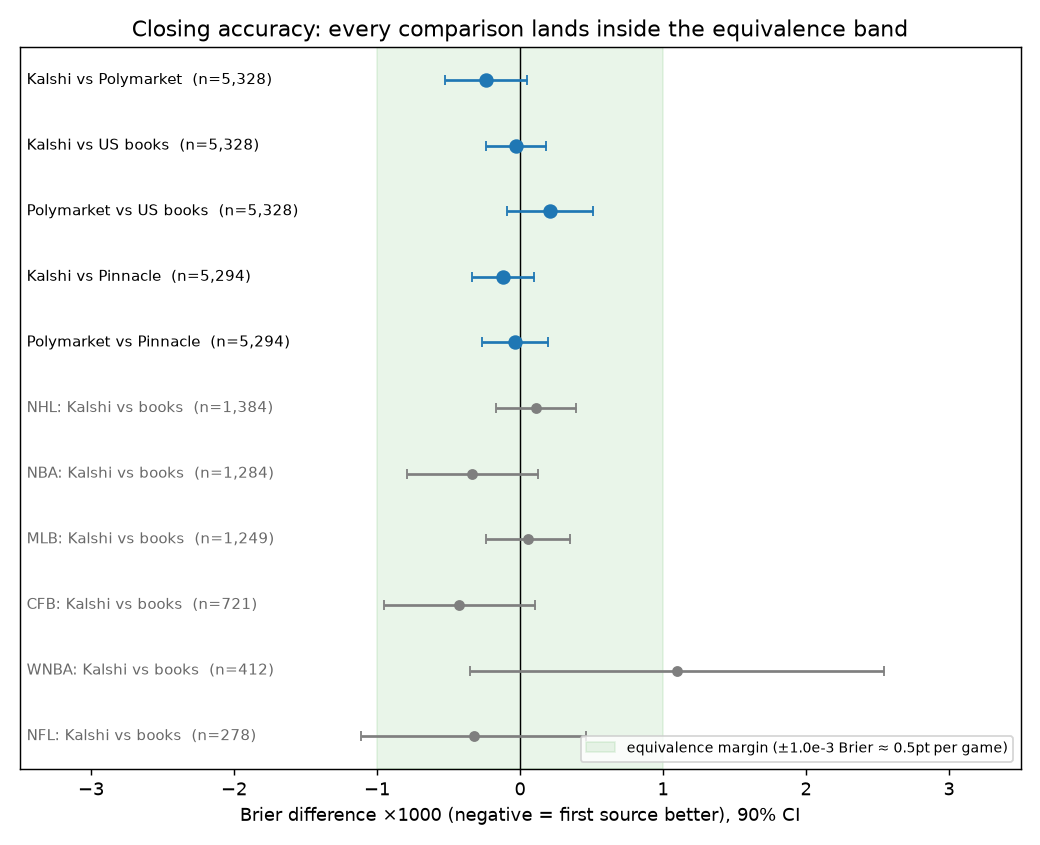
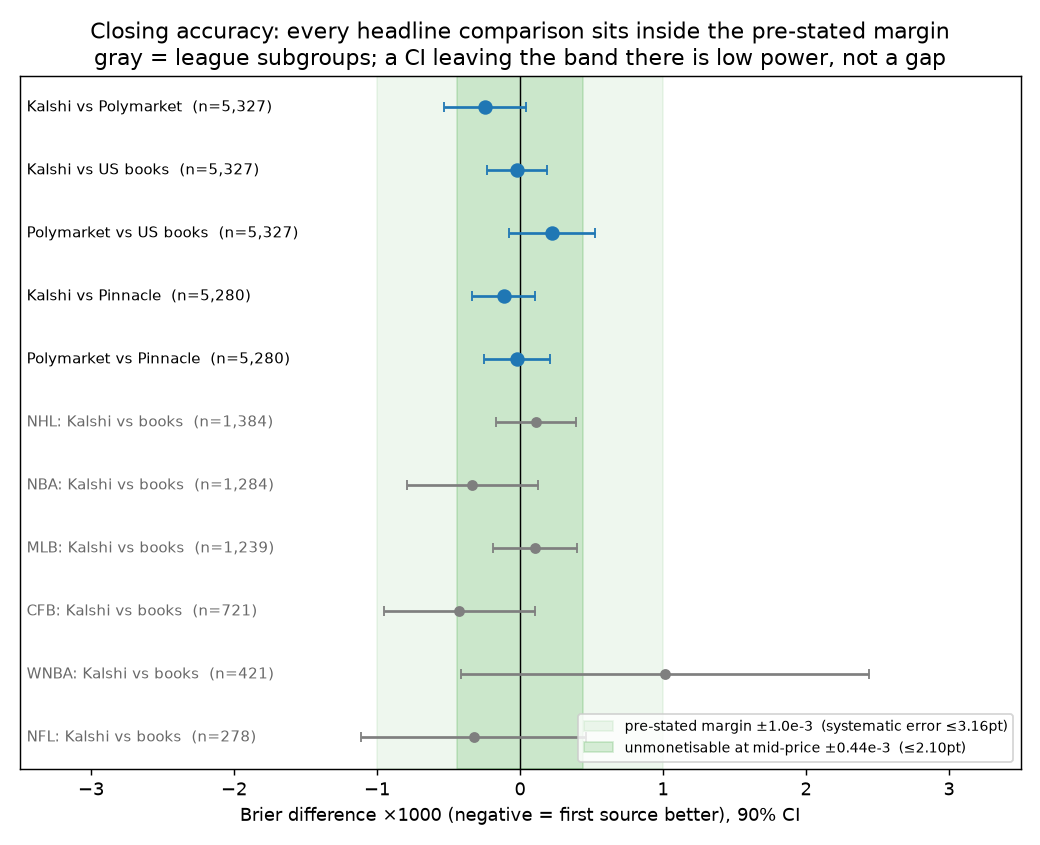
Fix the equivalence margin's probability scale, and anchor it economically
dBrier = eps^2 exactly for a forecast displaced from truth by eps. rigor.py
and two docs glossed the pre-stated margin d=1.0e-3 as "0.5pt per game"; it
is 3.16pt. The error ran in the flattering direction and had reached the
published Fig 2 label.

The margin does not move -- it was pre-stated 2026-07-21, and re-choosing it
after seeing results is the failure the pre-registration note warns about.
Instead it is now reported against a cost anchor: an edge below
(4.2% all-in taker cost x contract price) cannot be monetised, giving
d = 0.11 / 0.44 / 0.99e-3 at prices 0.25 / 0.50 / 0.75. The pre-stated
1.0e-3 turns out to be that anchor at favourite prices.

rigor.py now prints |CI|max on the probability scale and a verdict table
against the full ladder. Result at the mid-price anchor (0.44e-3):

  Kalshi - Sportsbook      0.234e-3 = 1.53pt   equivalent
  Polymarket - Sportsbook  0.521e-3 = 2.28pt   does not resolve
  Kalshi - Polymarket      0.530e-3 = 2.30pt   does not resolve

So the paper's core comparison survives the strictest defensible margin, and
the Polymarket pairs resolve only at the looser one -- a sharper claim than
the blanket equivalence, and it states its own limit.

Fig 2 gains the inner band and loses a title that overstated: WNBA and NFL
CIs visibly exit the pre-stated band, which is low power, not a gap.

Suite re-run: 57 modules, 0 failures.

diff --git a/src/analysis/rigor.py b/src/analysis/rigor.py
@@ -3,7 +3,12 @@
 1. Cluster-robust DM tests (cluster by date: same-day games share news/conditions).
 2. TOST equivalence: turn "not significant" into "statistically equivalent within ±δ".
    We report the 90% CI of each pairwise Brier difference — equivalence holds at any
-   margin δ wider than that CI.
+   margin δ wider than that CI — and translate every margin onto the probability
+   scale, because ΔBrier = ε² for a systematic offset ε and the two are easy to
+   confuse (an earlier note in this file glossed δ=1e-3 as 0.5pt; it is 3.16pt).
+   Margins are anchored economically: an edge below (taker cost × price) cannot be
+   monetised, so that is the smallest difference worth calling real.
+   See docs/methodology-decisions.md D2.
 3. De-vig robustness: recompute book probabilities with Shin's model (which accounts
    for insider/informed betting) instead of multiplicative normalization; re-test.
 """
@@ -14,6 +19,64 @@ import pandas as pd
 from scipy import stats
 
 from src.analysis.three_way import load, SRC
+
+
+# All-in retail taker cost as a share of notional [immediacy.log; Kalshi's taker
+# path ≈ the books' 4.1% vig]. Anchors the equivalence margin: an edge smaller
+# than (cost × price) cannot be monetised by anyone actually paying that cost.
+TAKER_COST = 0.042
+
+# Pre-stated TOST margin, fixed 2026-07-21 before the comparisons that rest on
+# it. It does not move — see docs/methodology-decisions.md D2.
+DELTA_PRESTATED = 1.0e-3
+
+ANCHOR_PRICES = (0.25, 0.50, 0.75)
+
+
+def eps_pt(delta):
+    """Systematic probability offset, in percentage points, that a Brier margin
+    δ tolerates. For a forecast displaced from the truth by ε, the Brier excess
+    is exactly ε², so the offset a margin admits is √δ."""
+    return np.sqrt(delta) * 100
+
+
+def anchored_margin(price, cost=TAKER_COST):
+    """Brier margin below which an edge is unmonetisable at this contract price.
+    Cost is a share of notional and notional is the contract price, so breakeven
+    edge is cost × price; converting to the Brier scale squares it."""
+    return (cost * price) ** 2
+
+
+def equivalence_report(pairs):
+    """Margin ladder on the probability scale, then each pair's TOST verdict."""
+    print("\n=== equivalence margins, translated to the probability scale ===", flush=True)
+    print("  ΔBrier = ε² for a systematic offset ε, so a margin δ admits √δ:", flush=True)
+    ladder = [anchored_margin(p) for p in ANCHOR_PRICES] + [DELTA_PRESTATED]
+    print("    " + "   ".join(f"δ={dl*1000:.2f}e-3 -> {eps_pt(dl):.2f}pt" for dl in ladder), flush=True)
+
+    print(f"\n  Economic anchor: an edge below (taker cost × price) cannot be monetised.", flush=True)
+    print(f"  All-in taker cost {TAKER_COST*100:.1f}% of notional [immediacy.log].", flush=True)
+    for pr in ANCHOR_PRICES:
+        dl = anchored_margin(pr)
+        print(f"    price {pr:.2f} -> breakeven edge {TAKER_COST*pr*100:.2f}pt "
+              f"-> δ={dl*1000:.3f}e-3", flush=True)
+    print(f"  The pre-stated δ={DELTA_PRESTATED*1000:.1f}e-3 coincides with the anchor at "
+          f"favourite prices (p≈0.75);\n  it was fixed before these comparisons and is "
+          f"not re-chosen here.", flush=True)
+
+    margins = [(f"p={pr:.2f}", anchored_margin(pr)) for pr in ANCHOR_PRICES]
+    margins.append(("pre-stated", DELTA_PRESTATED))
+
+    print("\n=== TOST verdicts: equivalent at δ iff the 90% CI lies inside ±δ ===", flush=True)
+    head = f"  {'pair':<26}{'|CI|max':>11}{'':3}" + "".join(f"{lab:>12}" for lab, _ in margins)
+    print(head, flush=True)
+    print("  " + "-" * (len(head) - 2), flush=True)
+    for name, bound in pairs:
+        cells = "".join(f"{'yes' if bound < dl else 'NO':>12}" for _, dl in margins)
+        print(f"  {name:<26}{bound*1000:>8.3f}e-3{'':3}{cells}", flush=True)
+    print("\n  A 'NO' at the tighter anchors reports the measurement's power, not a", flush=True)
+    print("  difference between venues: it means the comparison stops resolving below", flush=True)
+    print("  an edge only a zero-cost participant could ever act on.", flush=True)
 
 
 def cluster_dm(pA, pB, y, clusters):
@@ -54,14 +117,18 @@ def main():
 
     print("=== cluster-robust (by date) pairwise DM + 90% CI of Brier difference ===", flush=True)
     names = list(SRC)
+    pairs = []
     for i in range(len(names)):
         for j in range(i + 1, len(names)):
             a, b = names[i], names[j]
             dbar, se, z, p, ci = cluster_dm(d[SRC[a][0]], d[SRC[b][0]], y, dates)
+            bound = max(abs(ci[0]), abs(ci[1]))
+            pairs.append((f"{a} - {b}", bound))
             print(f"  {a} - {b}: ΔBrier={dbar*1000:+.3f}e-3  clustSE={se*1000:.3f}e-3  "
-                  f"z={z:+.2f} p={p:.3f}  90%CI=({ci[0]*1000:+.3f},{ci[1]*1000:+.3f})e-3", flush=True)
-    print("  -> equivalence (TOST) holds at margin δ iff the 90% CI lies inside ±δ.", flush=True)
-    print("     For scale: δ=1.0e-3 Brier ≈ a 0.5% probability error on every game.", flush=True)
+                  f"z={z:+.2f} p={p:.3f}  90%CI=({ci[0]*1000:+.3f},{ci[1]*1000:+.3f})e-3  "
+                  f"|CI|max={bound*1000:.3f}e-3 = {eps_pt(bound):.2f}pt", flush=True)
+
+    equivalence_report(pairs)
 
     print("\n=== de-vig robustness: multiplicative vs Shin (book fair probs) ===", flush=True)
     sb = pd.read_csv("data/processed/sportsbook_hist_prices.csv")[["game_id", "book_raw1", "book_raw2"]]

diff --git a/src/analysis/report_figures.py b/src/analysis/report_figures.py
@@ -54,8 +54,15 @@ def forest():
 
     fig, ax = plt.subplots(figsize=(8, 6.5))
     ys = np.arange(len(rows))[::-1]
-    ax.axvspan(-1, 1, color="tab:green", alpha=0.10,
-               label="equivalence margin (±1.0e-3 Brier ≈ 0.5pt per game)")
+    # Two margins. The outer band is the pre-stated TOST margin (fixed
+    # 2026-07-21); the inner is the strictest economically defensible reading —
+    # an edge below (4.2% taker cost x 0.50 price) cannot be monetised.
+    # Both are labelled on the probability scale: dBrier = eps^2, so a margin
+    # admits a systematic offset of sqrt(delta). See methodology-decisions D2.
+    ax.axvspan(-1, 1, color="tab:green", alpha=0.08,
+               label="pre-stated margin ±1.0e-3  (systematic error ≤3.16pt)")
+    ax.axvspan(-0.441, 0.441, color="tab:green", alpha=0.18,
+               label="unmonetisable at mid-price ±0.44e-3  (≤2.10pt)")
     ax.axvline(0, color="k", lw=0.8)
     for (lab, d, ci, n, sub), yy in zip(rows, ys):
         col = "tab:gray" if sub else "tab:blue"
@@ -65,7 +72,8 @@ def forest():
                 color="dimgray" if sub else "black")
     ax.set(yticks=[], xlim=(-3.5, 3.5),
            xlabel="Brier difference ×1000 (negative = first source better), 90% CI",
-           title="Closing accuracy: every comparison lands inside the equivalence band")
+           title="Closing accuracy: every headline comparison sits inside the pre-stated margin\n"
+                 "gray = league subgroups; a CI leaving the band there is low power, not a gap")
     ax.legend(loc="lower right", fontsize=8)
     fig.tight_layout()
     fig.savefig("results/equivalence_forest.png", dpi=130)

diff --git a/results/MANIFEST.md b/results/MANIFEST.md
@@ -1,66 +1,66 @@
-# Results manifest — regenerated 2026-08-14
+# Results manifest — regenerated 2026-08-20
 
-Suite: 57 modules, 182s total, 0 failed.
+Suite: 57 modules, 357s total, 0 failed.
 
 | module | status | seconds | log |
 |---|---|---|---|
-| data_audit | ok | 4.8 | logs/data_audit.log |
-| deep_audit | ok | 2.3 | logs/deep_audit.log |
-| plain_calibration | ok | 1.6 | logs/plain_calibration.log |
-| three_way | ok | 1.3 | logs/three_way.log |
-| rigor | ok | 1.3 | logs/rigor.log |
-| league_tost | ok | 1.1 | logs/league_tost.log |
-| four_way | ok | 1.6 | logs/four_way.log |
-| decomposition | ok | 1.2 | logs/decomposition.log |
-| nuance | ok | 1.4 | logs/nuance.log |
-| corp_diagram | ok | 2.3 | logs/corp_diagram.log |
-| murphy | ok | 1.7 | logs/murphy.log |
-| coherence | ok | 4.1 | logs/coherence.log |
-| margin_dist | ok | 5.9 | logs/margin_dist.log |
-| book_pit | ok | 4.6 | logs/book_pit.log |
-| totals | ok | 6.4 | logs/totals.log |
-| ladder_vs_books | ok | 2.8 | logs/ladder_vs_books.log |
-| ladder_cost | ok | 0.3 | logs/ladder_cost.log |
-| multi_outcome | ok | 9.8 | logs/multi_outcome.log |
-| mlb_autopsy | ok | 3.0 | logs/mlb_autopsy.log |
-| mlb_extras | ok | 1.7 | logs/mlb_extras.log |
-| profitability | ok | 0.6 | logs/profitability.log |
-| behavioral | ok | 1.2 | logs/behavioral.log |
-| why_sports | ok | 1.4 | logs/why_sports.log |
-| time_stability | ok | 3.3 | logs/time_stability.log |
-| futures_calibration | ok | 0.8 | logs/futures_calibration.log |
-| retail_fingerprint | ok | 2.3 | logs/retail_fingerprint.log |
-| niche_gradient | ok | 2.1 | logs/niche_gradient.log |
-| book_outrights | ok | 1.1 | logs/book_outrights.log |
-| sharp_books | ok | 1.3 | logs/sharp_books.log |
-| us_books | ok | 1.4 | logs/us_books.log |
-| maker_structure | ok | 0.4 | logs/maker_structure.log |
-| liquidity_footprint | ok | 1.6 | logs/liquidity_footprint.log |
-| mm_involvement | ok | 0.8 | logs/mm_involvement.log |
-| market_functioning | ok | 0.2 | logs/market_functioning.log |
-| model_benchmark | ok | 1.5 | logs/model_benchmark.log |
-| encompassing | ok | 1.2 | logs/encompassing.log |
-| late_flow | ok | 0.9 | logs/late_flow.log |
-| informed | ok | 2.0 | logs/informed.log |
-| horizon | ok | 1.2 | logs/horizon.log |
-| horizon_equivalence | ok | 1.2 | logs/horizon_equivalence.log |
-| horizon_cross | ok | 1.4 | logs/horizon_cross.log |
-| close_efficiency | ok | 1.4 | logs/close_efficiency.log |
-| layer2 | ok | 2.7 | logs/layer2.log |
-| one_price | ok | 0.2 | logs/one_price.log |
-| multiple_testing | ok | 0.1 | logs/multiple_testing.log |
-| fee_experiment | ok | 1.2 | logs/fee_experiment.log |
-| fee_liquidity | ok | 1.5 | logs/fee_liquidity.log |
-| tick_pricing | ok | 1.3 | logs/tick_pricing.log |
-| referee | ok | 1.7 | logs/referee.log |
-| power | ok | 1.2 | logs/power.log |
-| horizon_translation | ok | 1.5 | logs/horizon_translation.log |
-| lead_lag | ok | 1.5 | logs/lead_lag.log |
-| book_moves | ok | 2.0 | logs/book_moves.log |
-| minute_lead_lag | ok | 3.4 | logs/minute_lead_lag.log |
-| five_min | ok | 3.4 | logs/five_min.log |
-| immediacy | ok | 1.1 | logs/immediacy.log |
-| hierarchical_calibration | ok | 71.1 | logs/hierarchical_calibration.log |
+| data_audit | ok | 20.4 | logs/data_audit.log |
+| deep_audit | ok | 3.8 | logs/deep_audit.log |
+| plain_calibration | ok | 2.6 | logs/plain_calibration.log |
+| three_way | ok | 2.0 | logs/three_way.log |
+| rigor | ok | 2.3 | logs/rigor.log |
+| league_tost | ok | 3.5 | logs/league_tost.log |
+| four_way | ok | 2.2 | logs/four_way.log |
+| decomposition | ok | 1.7 | logs/decomposition.log |
+| nuance | ok | 3.5 | logs/nuance.log |
+| corp_diagram | ok | 5.4 | logs/corp_diagram.log |
+| murphy | ok | 3.2 | logs/murphy.log |
+| coherence | ok | 6.0 | logs/coherence.log |
+| margin_dist | ok | 9.7 | logs/margin_dist.log |
+| book_pit | ok | 16.7 | logs/book_pit.log |
+| totals | ok | 18.3 | logs/totals.log |
+| ladder_vs_books | ok | 4.2 | logs/ladder_vs_books.log |
+| ladder_cost | ok | 1.5 | logs/ladder_cost.log |
+| multi_outcome | ok | 13.1 | logs/multi_outcome.log |
+| mlb_autopsy | ok | 4.5 | logs/mlb_autopsy.log |
+| mlb_extras | ok | 3.2 | logs/mlb_extras.log |
+| profitability | ok | 2.3 | logs/profitability.log |
+| behavioral | ok | 3.8 | logs/behavioral.log |
+| why_sports | ok | 2.9 | logs/why_sports.log |
+| time_stability | ok | 5.1 | logs/time_stability.log |
+| futures_calibration | ok | 3.3 | logs/futures_calibration.log |
+| retail_fingerprint | ok | 3.9 | logs/retail_fingerprint.log |
+| niche_gradient | ok | 4.8 | logs/niche_gradient.log |
+| book_outrights | ok | 4.7 | logs/book_outrights.log |
+| sharp_books | ok | 22.4 | logs/sharp_books.log |
+| us_books | ok | 8.5 | logs/us_books.log |
+| maker_structure | ok | 2.2 | logs/maker_structure.log |
+| liquidity_footprint | ok | 18.6 | logs/liquidity_footprint.log |
+| mm_involvement | ok | 3.3 | logs/mm_involvement.log |
+| market_functioning | ok | 3.3 | logs/market_functioning.log |
+| model_benchmark | ok | 3.7 | logs/model_benchmark.log |
+| encompassing | ok | 2.7 | logs/encompassing.log |
+| late_flow | ok | 2.3 | logs/late_flow.log |
+| informed | ok | 3.4 | logs/informed.log |
+| horizon | ok | 2.9 | logs/horizon.log |
+| horizon_equivalence | ok | 3.0 | logs/horizon_equivalence.log |
+| horizon_cross | ok | 2.6 | logs/horizon_cross.log |
+| close_efficiency | ok | 2.9 | logs/close_efficiency.log |
+| layer2 | ok | 3.8 | logs/layer2.log |
+| one_price | ok | 1.7 | logs/one_price.log |
+| multiple_testing | ok | 1.3 | logs/multiple_testing.log |
+| fee_experiment | ok | 2.6 | logs/fee_experiment.log |
+| fee_liquidity | ok | 2.5 | logs/fee_liquidity.log |
+| tick_pricing | ok | 2.0 | logs/tick_pricing.log |
+| referee | ok | 2.2 | logs/referee.log |
+| power | ok | 3.1 | logs/power.log |
+| horizon_translation | ok | 3.3 | logs/horizon_translation.log |
+| lead_lag | ok | 2.9 | logs/lead_lag.log |
+| book_moves | ok | 3.6 | logs/book_moves.log |
+| minute_lead_lag | ok | 5.2 | logs/minute_lead_lag.log |
+| five_min | ok | 5.0 | logs/five_min.log |
+| immediacy | ok | 2.7 | logs/immediacy.log |
+| hierarchical_calibration | ok | 74.4 | logs/hierarchical_calibration.log |
 
 ## Figures
 

diff --git a/docs/findings.md b/docs/findings.md
@@ -166,8 +166,16 @@ this table is not luck. (`results/plain_calibration.png`)
 - No pairwise Diebold–Mariano difference is significant; with **date-clustered SEs**
   (383 clusters): p = 0.15 / 0.26 / 0.54.
 - **TOST equivalence:** every pairwise ΔBrier 90% CI lies within ±0.00052 → the three
-  sources are formally *equivalent* at margin δ = 0.001 Brier (≈0.5% per-game
-  probability error).
+  sources are formally *equivalent* at margin δ = 0.001 Brier. **Scale correction
+  (2026-08-20):** δ is 0.46% *of the Brier level*, which is a systematic
+  probability offset of **3.16pt**, not the 0.5pt this line previously implied —
+  ΔBrier = ε² exactly. The margin does not move (it was pre-stated 2026-07-21)
+  but is now read against the cost-anchored ladder: δ = 0.11 / 0.44 / 0.99e-3 at
+  contract prices 0.25 / 0.50 / 0.75, being the edge that a 4.2% all-in taker
+  cost makes unmonetisable. At the mid-price anchor (0.44e-3) **Kalshi–Sportsbook
+  remains equivalent (|CI|max 0.234e-3 = 1.53pt)** while the two Polymarket pairs
+  (0.530 / 0.521e-3) resolve only at the favourite-price anchor. See
+  `docs/methodology-decisions.md` D2 and `rigor.log`.
 - **Per-league TOST (2026-07-21):** equivalence at δ=0.001 also holds formally
   *within each* of the three big leagues — all 9 pairwise CIs in MLB/NBA/NHL
   (n≥1,206 each) sit inside ±0.84e-3. CFB/WNBA/NFL show no detectable

diff --git a/docs/report-outline.md b/docs/report-outline.md
@@ -109,7 +109,7 @@ HORIZON — people using these for long-term wealth — which is exactly the axi
 - Scoring: Brier + log score; Murphy decomposition; CORP; Murphy diagrams
   with sup-t bands. De-vig: multiplicative default, Shin for tail-sensitive
   claims (tail artifact documented).
-- Inference: date-clustered DM; TOST at δ=1.0e-3 Brier (≈0.5pt/game);
+- Inference: date-clustered DM; TOST at δ=1.0e-3 Brier (admits a systematic 3.16pt offset; ΔBrier=ε²), reported against the cost-anchored ladder δ=0.11/0.44/0.99e-3 at prices 0.25/0.50/0.75;
   interval-randomized tie-consistent PIT; exact binomials for tail buckets;
   cluster bootstrap for niche ECE/slope; BH-FDR two-family policy.
 - Power: MDE table for every subgroup equivalence [power.log]. Pooled MDE
